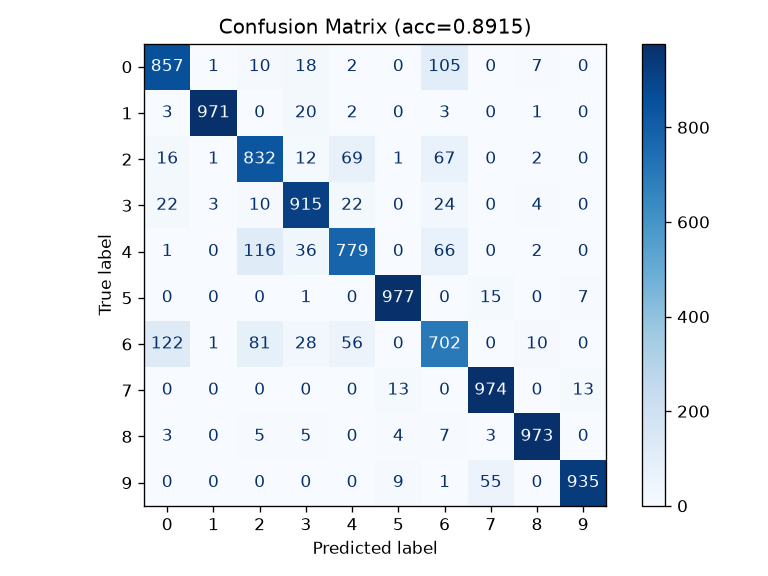
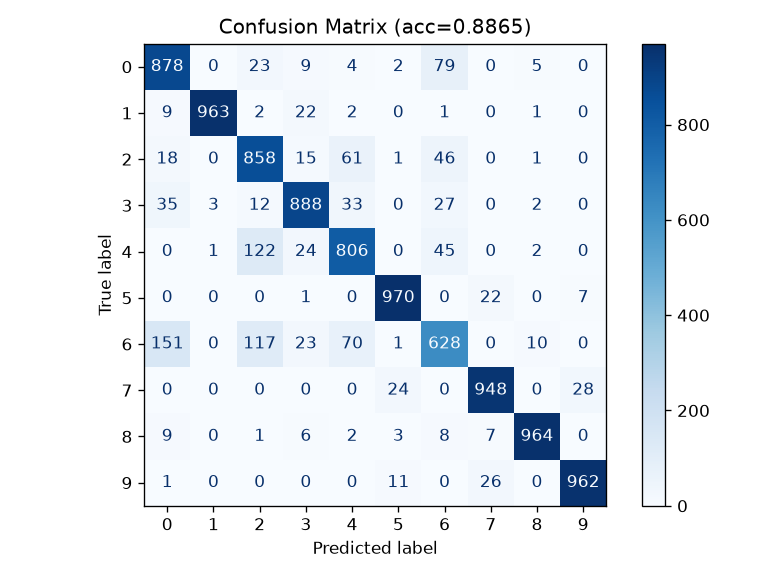
pushing

diff --git a/src/prepare.py b/src/prepare.py
@@ -19,5 +19,3 @@ if __name__ == "__main__":
     main()
 
 
-#client id REDACTED
-# clinet sec REDACTED
